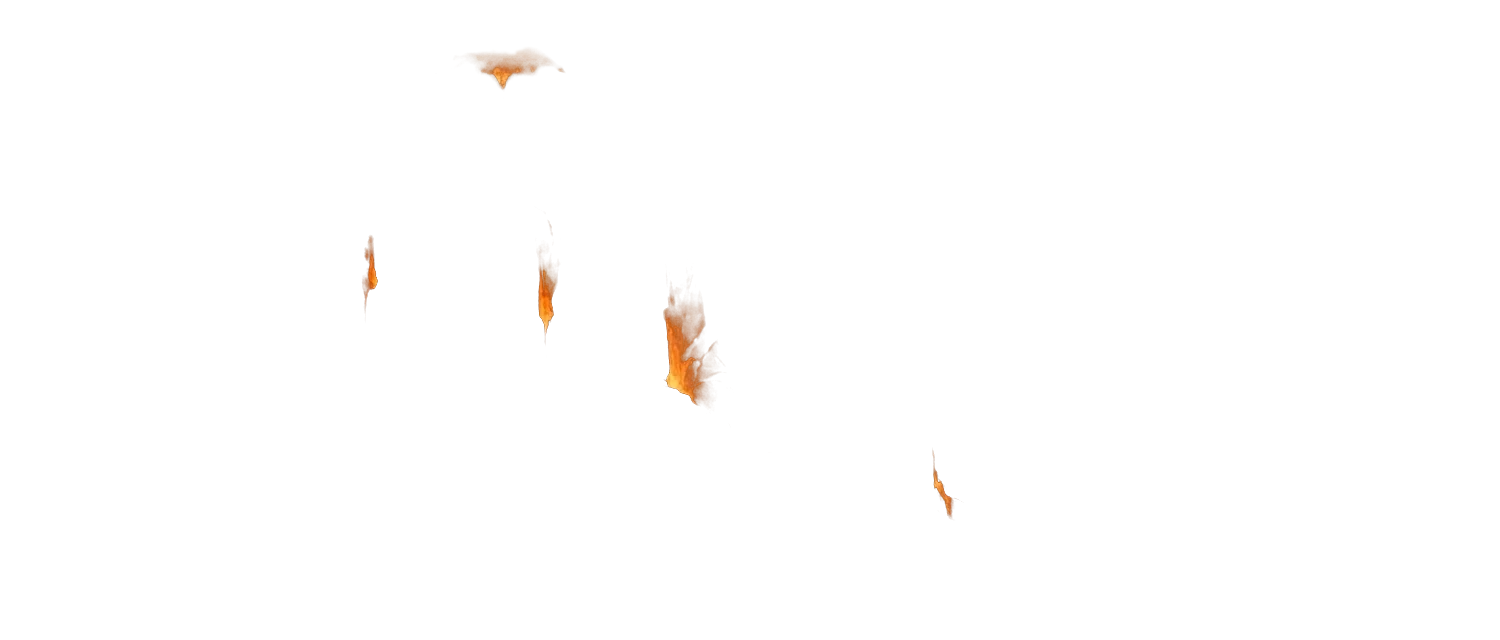
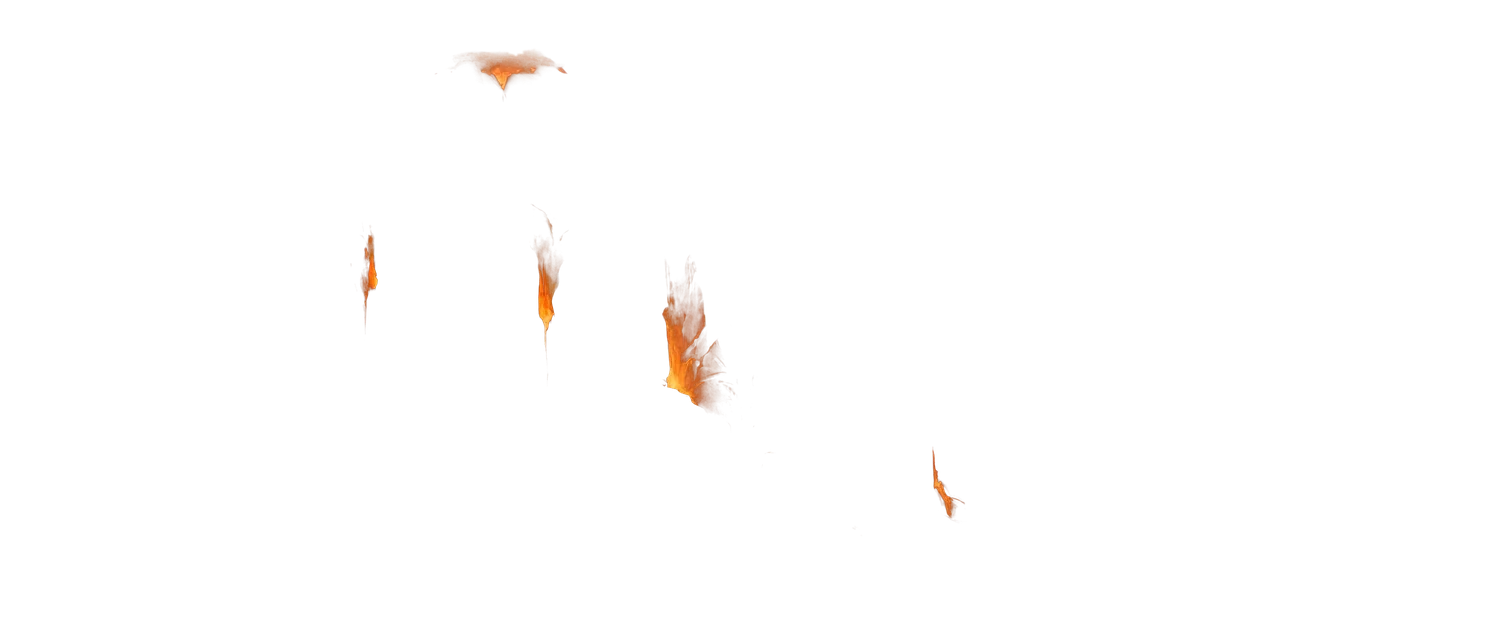
Level 3: the mountain painted again at full resolution, kept sharp in the close-up; the summit's smoke no longer stretched into a blur (build 183)
Claude-Session: https://claude.ai/code/session_017HrTSFyfTVf9ZqAjrWoXZM

diff --git a/hill.js b/hill.js
@@ -287,8 +287,12 @@ const HL = (() => {
   // burning edge are no longer drawn once it has loaded. Until then the code-drawn hill stands in.
   let LAVA = null, LAVAB = null, HILLV = null;
   function paintHill(rock, fire) {
-    HILL = [[[74, 62, 66], .74], [[22, 20, 26], .58]].map(([col, a]) => { const c = mk(HW, HH), k = c.getContext('2d'); k.drawImage(rock, 0, 0, HW, HH);
-      k.globalCompositeOperation = 'source-atop'; k.globalAlpha = a; k.fillStyle = css(col); k.fillRect(0, 0, HW, HH); return c; });
+    // (build 183, owner: "Gotta increase resolution, no?": the painting was made again at the image model's highest
+    // size, 6336 px wide, and kept at 3000 x 1280, twice the hill's own units, so the close-up and the summit stay
+    // sharp on a phone; the baked hills take the picture's own size, R times the units)
+    const R = rock.width / HW;
+    HILL = [[[74, 62, 66], .74], [[22, 20, 26], .58]].map(([col, a]) => { const c = mk(HW * R, HH * R), k = c.getContext('2d'); k.drawImage(rock, 0, 0, HW * R, HH * R);
+      k.globalCompositeOperation = 'source-atop'; k.globalAlpha = a; k.fillStyle = css(col); k.fillRect(0, 0, HW * R, HH * R); return c; });
     // the hill veiled (build 181): the same shape washed with the fair evening's haze, the summit almost lost in it
     // (its tones follow the sky behind it at each height, a trace of the rock shows through, and it is baked at a
     // quarter size and stretched, so its edges are soft, as a far mountain's are through haze)
@@ -621,8 +625,8 @@ const HL = (() => {
         // gathers only in the top of the sky and on the far left, where the plume flows into it. Dark billows,
         // those near the summit faintly lit from beneath; at a flash the light is inside the cloud. Drawn before
         // the hill, so nothing of it lies over the hill.
-        if (dark > .02) { for (let i = 0; i < 34; i++) { const h1 = Math.sin(i * 39.3468) * 24634.6345, h2 = Math.sin(i * 11.135) * 7541.931, h3 = Math.sin(i * 73.156) * 3141.59, r1 = h1 - Math.floor(h1), r2 = h2 - Math.floor(h2), r3 = h3 - Math.floor(h3);
-            const left = r1 * r1, px = sx0 + (420 - 2100 * r1) * k + 26 * k * Math.sin(G.t / 700 + i), py = sy0 - (60 + 250 * r2) * k + left * 430 * r3 * k, rr = (120 + 200 * r3) * k, P = PUFF[i % 3];
+        if (dark > .02) { const kS = Math.min(k, z * HS * 1.25); for (let i = 0; i < 34; i++) { const h1 = Math.sin(i * 39.3468) * 24634.6345, h2 = Math.sin(i * 11.135) * 7541.931, h3 = Math.sin(i * 73.156) * 3141.59, r1 = h1 - Math.floor(h1), r2 = h2 - Math.floor(h2), r3 = h3 - Math.floor(h3);
+            const left = r1 * r1, px = sx0 + (420 - 2100 * r1) * kS + 26 * kS * Math.sin(G.t / 700 + i), py = sy0 - (60 + 250 * r2) * kS + left * 430 * r3 * kS, rr = (120 + 200 * r3) * kS, P = PUFF[i % 3];
             c.globalCompositeOperation = 'source-over'; c.globalAlpha = dark * (.5 + .3 * r2); c.drawImage(P.d, px - rr, py - rr * .62, 2 * rr, 1.24 * rr);
             const near = Math.max(0, 1 - Math.hypot(px - sx0, py - sy0) / (760 * k)), la = burn * (.13 + .36 * near * near) + F * .3 * near; if (la > .01) { c.globalCompositeOperation = 'lighter'; c.globalAlpha = la; c.drawImage(P.l, px - rr, py - rr * .62, 2 * rr, 1.24 * rr); } }
           c.globalCompositeOperation = 'source-over'; c.globalAlpha = 1; }
@@ -680,10 +684,12 @@ const HL = (() => {
         // rolls away across the sky over his head, growing and thinning as it goes. Soft round billows, dark, the
         // near ones lit from beneath by the fire (amber, never red). Each billow travels the whole way in about a
         // minute and melts away at the end; the far ones are drawn first.
-        { const N = 46, ps = [];
+        // (build 183: the smoke and the cloud keep the size they have from a distance, `kS`: stretched to the near hill's
+        // size the soft billows became one huge blur filling the close-up)
+        { const N = 46, ps = [], kS = Math.min(k, z * HS * 1.25);
           for (let i = 0; i < N; i++) { const h1 = Math.sin(i * 12.9898) * 43758.5453, h2 = Math.sin(i * 78.233) * 12543.123; ps.push([(i / N + G.t / 3400) % 1, h1 - Math.floor(h1), h2 - Math.floor(h2), i]); }
           ps.sort((a, b) => b[0] - a[0]);
-          for (const [u, r1, r2, i] of ps) { const rise = 1 - Math.pow(1 - u, 3), spread = (40 + 230 * u) * k, px = sx0 - (240 * u + 900 * u * u) * k + (r1 - .5) * spread, py = sy0 - (14 + 150 * rise - 60 * u * u) * k + (r2 - .5) * spread * .7, rr = (40 + 210 * u) * k * (.8 + .4 * r2), a = smooth(0, .05, u) * (1 - smooth(.72, 1, u)), P = PUFF[i % 3];
+          for (const [u, r1, r2, i] of ps) { const rise = 1 - Math.pow(1 - u, 3), spread = (40 + 230 * u) * kS, px = sx0 - (240 * u + 900 * u * u) * kS + (r1 - .5) * spread, py = sy0 - (14 + 150 * rise - 60 * u * u) * kS + (r2 - .5) * spread * .7, rr = (40 + 210 * u) * kS * (.8 + .4 * r2), a = smooth(0, .05, u) * (1 - smooth(.72, 1, u)), P = PUFF[i % 3];
             c.globalCompositeOperation = 'source-over'; c.globalAlpha = a * (.07 + .73 * dark) * reveal; c.drawImage(P.d, px - rr, py - rr, 2 * rr, 2 * rr);
             const la = a * (burn * (.3 + .7 * Math.pow(1 - u, 2)) + F * .3 * (1 - u)); if (la > .01) { c.globalCompositeOperation = 'lighter'; c.globalAlpha = la; c.drawImage(P.l, px - rr, py - rr, 2 * rr, 2 * rr); } } }
         c.globalCompositeOperation = 'source-over'; c.globalAlpha = 1;
@@ -853,5 +859,5 @@ const HL = (() => {
   }
 
   // for testing: HL.peek() tells where the story is
-  return { on: false, show: false, hillPics: () => HILL, title, start, update, draw, touch, key, preload, lines: ALL, pt: k => k === 'hill' ? hillPt() : gatePt(), peek: () => ({ ph, x: Math.round(C3.x), st: stillT, stand: C3.sd != null, wx: wise && Math.round(wise.x), ex: evan && evan.x != null ? Math.round(evan.x) : null, dark: +dark.toFixed(2), wise: wise && wise.mode, evan: evan && +evan.a.toFixed(2), knocks, cam: { ...cam } }) };
+  return { on: false, show: false, hillPics: () => HILL, title, start, update, draw, touch, key, preload, lines: ALL, pt: k => k === 'hill' ? hillPt() : gatePt(), peek: () => ({ ph, x: Math.round(C3.x), stillT, stand: C3.sd != null, wx: wise && Math.round(wise.x), ex: evan && evan.x != null ? Math.round(evan.x) : null, dark: +dark.toFixed(2), wise: wise && wise.mode, evan: evan && +evan.a.toFixed(2), knocks, cam: { ...cam } }) };
 })();

diff --git a/index.html b/index.html
@@ -85,7 +85,7 @@ body.portrait #rot{display:block}
     <button class="btn" id="again">Walk again</button>
   </div>
   <button id="snd" aria-label="Sound on or off">♪</button>
-  <div id="build">build 182 · Nov 16 2026</div>
+  <div id="build">build 183 · Nov 16 2026</div>
 </div></div>
 <div id="rot">Turn your phone sideways for a bigger picture</div>
 <script>
@@ -2302,7 +2302,7 @@ document.getElementById('on2').onclick = () => SL.on ? go3() : go2();
 })();
 </script>
 <script src="slough.js?v=182"></script>
-<script src="hill.js?v=181"></script>
+<script src="hill.js?v=183"></script>
 <script src="keepsakes.js?v=179"></script>
 </body>
 </html>

diff --git a/story-lab.html b/story-lab.html
@@ -3,4 +3,4 @@
 <title>Pilgrim's Progress</title>
 <!-- The game moved to the main page in build 119. This page only sends old links (and Home Screen icons) on to it. -->
 <script>location.replace('./' + location.search + location.hash);</script>
-<p><a href="./">Pilgrim's Progress</a> <span id="build">build 182 · Nov 16 2026</span></p>
+<p><a href="./">Pilgrim's Progress</a> <span id="build">build 183 · Nov 16 2026</span></p>

diff --git a/CLAUDE.md b/CLAUDE.md
@@ -33,7 +33,7 @@ A gentle side-scrolling story walk for kids ages 7 to 10, following Bunyan's *Th
 ## Working with the owner
 
 - **Repo `Twhidbey/pilgrims-progress`, branch `main`. Pushing `main` publishes the game** (GitHub Pages, https://twhidbey.github.io/pilgrims-progress/, 1 to 2 minutes). Commit and push after every change, then tell the owner it is live; a phone may show an old copy, so suggest `?v=N`.
-- **Build stamp** (`id="build"`, bottom right): `build N · date` in `index.html` and `story-lab.html`. Bump N on **every** push that changes the game, so one number means one push. Keep the form `id="build">... build N` (the page's self-update reads it). **Currently build 182.** The two script tags at the end of `index.html` carry `?v=N` (`slough.js?v=`, `hill.js?v=`): set them to the build that last changed each file, so phones fetch the new copy. Several chats push at once: `git fetch` and rebase on `origin/main` just before pushing, and take the next number after whatever is there.
+- **Build stamp** (`id="build"`, bottom right): `build N · date` in `index.html` and `story-lab.html`. Bump N on **every** push that changes the game, so one number means one push. Keep the form `id="build">... build N` (the page's self-update reads it). **Currently build 183.** The two script tags at the end of `index.html` carry `?v=N` (`slough.js?v=`, `hill.js?v=`): set them to the build that last changed each file, so phones fetch the new copy. Several chats push at once: `git fetch` and rebase on `origin/main` just before pushing, and take the next number after whatever is there.
 - **SPEND AS LITTLE AS POSSIBLE (owner, build 106: "can you minimize spending - it's been pretty expensive for me last few days").** Video about 56 cents a try; a picture about 15 cents (`gemini-3-pro-image`); voice about a cent a line. **Before any paid call: say the cost and wait for a yes; keep the running total in `HANDOFF.md`.** Ways to save, in order: (1) do it in code first (breathing, sway, cloth and hair movement, small moves by warping a still, mirroring, tinting, reusing a figure); (2) build first and last frames from frames we already have; (3) draft pictures on `gemini-2.5-flash-image` (about a third of the price), the pro model only for the final; (4) show the owner a still before any video; (5) get two clips from one video (play backwards or back and forth); (6) write video prompts that pass the safety filter first time (no "sunk", "drowning", "thrashing", "desperate", "frightened"; say "thick sticky mud", "heaves", "cross and grumbling"); (7) a shorter video if the API offers one cheaper (not yet checked).
 - **Keep `CLAUDE.md` and `HANDOFF.md` updated after every change.** The repo is public: no names, emails or other personal details in notes, code or commits.
 - **Players:** kids 7 to 10, mostly on an iPhone. Gentle: no lives, no game over, read-aloud words, short simple sentences.
@@ -181,7 +181,7 @@ Owner: "is there a way to get pause and get menu that allows us to navigate away
 
 **Build 177: the owner's six points after playing it ("i like this level but don't love it"; all agreed as I proposed them; "do it here").** (1) **The light on the figures** ("the light around edges looks like a copy ... like i'm wearing 3d glasses"): the rim is now the figure's own outline, a hair thin, only where the edge faces the sun or the sky, strong on head and shoulders and gone by the knees, with a soft bloom (`figure()`, "LIGHT ON THE FIGURE"). (2) **The Wiseman talk acts itself out** ("lacks punch ... kinda drags"): a sweet, too-sweet tune under his voice (`sweet()`), the burden groans at "no more dangerous way" (`groan()`), and when he names the village it glows warm and small far off on the plain while the camera drifts to it (`vil`, `vilTo`); the village now stands at the hill's near foot ("the first house you come to is his") and fades as he comes close. (4) **The figures less flat**: each body is lit across, the sun side a little lighter and warmer, the far side a little cooler (in `figure()`), and the fair tint is a shade lighter ([72,66,62]). (5) **A painted mountain** ("the mountain cracks feel artificial. i need more realism"): one picture from the image model (about 15 cents, right first time) painted over the hill's own outline as its template, so the breaking-wave shape is kept: dark fractured rock with fire deep inside a few clefts. Cut into `assets/hill-rock.webp` (the rock) and `assets/hill-fire.webp` (only the fire); `paintHill()` tones the rock into the fair and dark hills, `LAVA`/`LAVAB` lay the fire on, restrained and breathing; the drawn seams and burning edge are gone once it loads. To redo: `HL.hillPics()` gives the outline for a new template. (6) **The road bends toward the mountain** ("i'd like for christian to get much closer to mountain and really feel the fire and rocks and trembling"): as he walks out of his way the hill slides more with the camera, grows to 1.35 times and its foot comes to the road (`appr`, `HL.appr`), until the overhang hangs over his head; beneath it stones and dust fall from the overhang (`ROCKS`, `shed()`, more at each flash), the ground trembles (a low rumble and a jolt at each flash, the picture drawn a hair larger so no edge shows) and he shivers (`trem` in `drawChr`); the camera stands at `z` .35 there so the summit stays in the picture. The tree (3) stays as it is.
 
-**Build 181: THE MOUNTAIN'S SIZE, ONE RULE (owner: "when you first see the hill it kinda appears out of nowhere - it should be there already and to the right. hill compared to house is so big. but then when christian gets close it's no where near as big ... need to think deeply about good way to view enormity of hill but still have character control and visibility"; my proposal, agreed: "yes build it").** (1) **It is there from the start, veiled:** on the right from the first picture, a great dusky mass in the haze, its summit lost in cloud (`HILLV`, baked once in `paintHill()` at a quarter size so its edges are soft, its tones following the sky at each height, a trace of the rock showing through); at "Do you see that hill?" the veil lifts (`reveal`) and the rock and fire show. This replaces build 167's "foothills only". (2) **Its size only ever grows:** far off it is already huge (`HS` 1.6); the camera never zooms out to fit it while the child steers (Christian keeps his size, `z` .86 to .8), and the hill grows as he walks out of his way (`NEAR` 2.6 times at its foot) until it runs off the top of the picture and the overhang closes over him. (3) **The camera looks up:** beneath the overhang, while nothing is steered, the camera climbs the cliff to the burning summit, drifting toward the peak (`cam.lift`, `cam.liftX`, by `stillT`: up from 70 to 340, holds to 520, down by 770), then sinks back to him; Evangelist comes only after it is down (`stillT > 780`). (4) **One far wide shot, after John Martin:** at "Do you see that hill?" the camera draws far back (`z` .3): the two men tiny dark figures with their thin edge of light, the mountain filling the sky. The village is a fixed small size now (not scaled with the hill). **Rule: show a vast thing's size by what does not fit and by moving the camera along it, never by shrinking the person the child steers.** Not yet: the painting is stretched about six times in the close-up and the summit is soft; a sharper painting needs a new picture (asked).
+**Build 181: THE MOUNTAIN'S SIZE, ONE RULE (owner: "when you first see the hill it kinda appears out of nowhere - it should be there already and to the right. hill compared to house is so big. but then when christian gets close it's no where near as big ... need to think deeply about good way to view enormity of hill but still have character control and visibility"; my proposal, agreed: "yes build it").** (1) **It is there from the start, veiled:** on the right from the first picture, a great dusky mass in the haze, its summit lost in cloud (`HILLV`, baked once in `paintHill()` at a quarter size so its edges are soft, its tones following the sky at each height, a trace of the rock showing through); at "Do you see that hill?" the veil lifts (`reveal`) and the rock and fire show. This replaces build 167's "foothills only". (2) **Its size only ever grows:** far off it is already huge (`HS` 1.6); the camera never zooms out to fit it while the child steers (Christian keeps his size, `z` .86 to .8), and the hill grows as he walks out of his way (`NEAR` 2.6 times at its foot) until it runs off the top of the picture and the overhang closes over him. (3) **The camera looks up:** beneath the overhang, while nothing is steered, the camera climbs the cliff to the burning summit, drifting toward the peak (`cam.lift`, `cam.liftX`, by `stillT`: up from 70 to 340, holds to 520, down by 770), then sinks back to him; Evangelist comes only after it is down (`stillT > 780`). (4) **One far wide shot, after John Martin:** at "Do you see that hill?" the camera draws far back (`z` .3): the two men tiny dark figures with their thin edge of light, the mountain filling the sky. The village is a fixed small size now (not scaled with the hill). **Rule: show a vast thing's size by what does not fit and by moving the camera along it, never by shrinking the person the child steers.** **Build 183 (owner: "Gotta increase resolution, no?" ... "Let's go!!"):** the painting was made again from the first one at the image model's highest size (`imageSize` '4K': 6336 x 2688; the same outline to 99.7%; one picture, roughly 25 cents), cut the same way into `hill-rock.webp` (3000 x 1280, twice the hill's units; 148 KB) and `hill-fire.webp` (1500 x 640); `paintHill()` keeps the rock at the picture's own size (`R`). The smoke and the summit's cloud keep the size they have from a distance (`kS`): stretched to the near hill they were one huge blur. **Lesson: a painted picture that the camera comes close to must be made at the size it is seen at its closest; ask for `imageSize` '4K' and keep it, and do not scale soft code-drawn shapes past the size they were made for.**
 
 **How it goes (`{37}` to `{60}`):** alone on the plain; he sees one far off (`SEEN`) → Wiseman walks in and they meet at the lone oak where the ways cross (`MEET`), the talk (`WISE`) → "Do you see that hill?" (act `'hill'`): the camera draws far back, the child touches the hill → he turns out of his way (`aside`): the sky darkens, the far light slips behind the hill, a bent, low tune (`WRONG`), holding moves him less and less → he stands still under the overhang (`still` at `STILL`); fire and thunder (`fire()`); he sweats and shakes → Evangelist comes (`come`; he has no walk, so he appears out of smoke) → the talk (`EVANW`): Christian falls at his feet (the weeping video) and is raised → back with haste: holding runs him back to the crossing (`back`, his plain run) → a veil of mist ("in process of time", `mist`, automatic) → the wall and the little wicket-gate under the far light (`gate`) → act `'knock'`: the child knocks three times on the gate → Good-will comes; the door opens a hand's breadth of light → end card "At the gate" (Level 4 begins with Good-will).
 

diff --git a/HANDOFF.md b/HANDOFF.md
@@ -36,7 +36,7 @@ Older handovers (builds 41 to 137, with the picture and video prompts used for H
 
 **Build 144: the title page is sized by the picture, so it fits an iPhone held upright (`CLAUDE.md`, Phones). Nothing spent.**
 
-**Spending since build 106 (the owner asked to keep it low): about $5.11.** Build 177: the painted mountain for Level 3 (one picture, about 15 cents). The oak painted again, whole (about 15 cents, the owner asked). Build 164: the shorter script recorded (32 reworded and missing Level 3 lines, with retakes, about 45 cents). The painted oak for Level 3's opening (one picture, about 15 cents, the owner asked for it; right first time). Build 156: Evangelist's walk video (about 56 cents, right first time) and two picture tries at levelling his feet (about 19 cents, both failed; done in code instead). A second reference study, of distant fire and smoke (about 15 cents, the owner said yes; shown to the owner, not in the repo; its lessons are in `CLAUDE.md`, Level 3). One reference painting of the burning hill for the fire's design (about 15 cents, the owner said yes; shown to the owner, not in the game or the repo; what it teaches is in `CLAUDE.md`, Level 3). Build 143 (the owner said yes to Level 3's small costs): Wiseman's voice designed and 37 lines recorded (about 40 cents), three pictures of Wiseman (one cheap draft and two on the pro model, about 35 cents). Build 149: Wiseman's walk video (about 56 cents, right first time). Build 143 (the owner said yes to Level 3's small costs): Wiseman's voice designed and 37 lines recorded (about 40 cents), three pictures of Wiseman (one cheap draft and two on the pro model, about 35 cents).
+**Spending since build 106 (the owner asked to keep it low): about $5.36.** Build 183: the mountain painted again at the image model's highest size (one picture, roughly 25 cents; the exact price of a 4K picture is not known). Build 177: the painted mountain for Level 3 (one picture, about 15 cents). The oak painted again, whole (about 15 cents, the owner asked). Build 164: the shorter script recorded (32 reworded and missing Level 3 lines, with retakes, about 45 cents). The painted oak for Level 3's opening (one picture, about 15 cents, the owner asked for it; right first time). Build 156: Evangelist's walk video (about 56 cents, right first time) and two picture tries at levelling his feet (about 19 cents, both failed; done in code instead). A second reference study, of distant fire and smoke (about 15 cents, the owner said yes; shown to the owner, not in the repo; its lessons are in `CLAUDE.md`, Level 3). One reference painting of the burning hill for the fire's design (about 15 cents, the owner said yes; shown to the owner, not in the game or the repo; what it teaches is in `CLAUDE.md`, Level 3). Build 143 (the owner said yes to Level 3's small costs): Wiseman's voice designed and 37 lines recorded (about 40 cents), three pictures of Wiseman (one cheap draft and two on the pro model, about 35 cents). Build 149: Wiseman's walk video (about 56 cents, right first time). Build 143 (the owner said yes to Level 3's small costs): Wiseman's voice designed and 37 lines recorded (about 40 cents), three pictures of Wiseman (one cheap draft and two on the pro model, about 35 cents).
 
 **Build 143, Level 3's paid parts:** the owner: "Level 3 let's do it all except big costs - maybe make some art requests with google image but check with me before the big video request". Wiseman's voice was designed from: "A prosperous, smooth-spoken English gentleman in his fifties. A rich, warm, confident voice of middle pitch, polished and persuasive, friendly on the surface and a little condescending, like a man used to being listened to and sure he knows best. Unhurried and well-spoken, with a plain educated English accent. Pleasant, never villainous or sinister." **16 lines are still to record** (Google's limit of 100 requests a day): run `python3 tools/make-voice.py` again. Wiseman's painting: `gemini-3-pro-image`, references Obstinate's and Pliable's standing pictures, prompt: the same loose grey watercolour; a well-to-do gentleman in his fifties, comfortably stout, strict side-on profile facing left, one gloved hand on a cane, the other open in easy advice, no burden, no mud; a long full cloak of fine wool with a deep soft fur collar over a long smooth coat tied with a broad smooth cloth sash (not a rope), fine leggings, tall polished riding boots, a broad-brimmed hat with a round crown; nothing ragged, no lace, ruffs, buckles, buttons, jewellery; a plain wash face (it still drew a faint eye, softened in code). The first pro try made him look poor (rope belt, wrapped legs): say "expensive and well kept". The picture is not in the repo until the owner likes it. **Next, after the owner's yes:** cut it out (`tools/cutout.py`), a walk video from it (about 56 cents), Evangelist's walk (about 56 cents). Say the cost and wait for a yes before every paid call.
 
